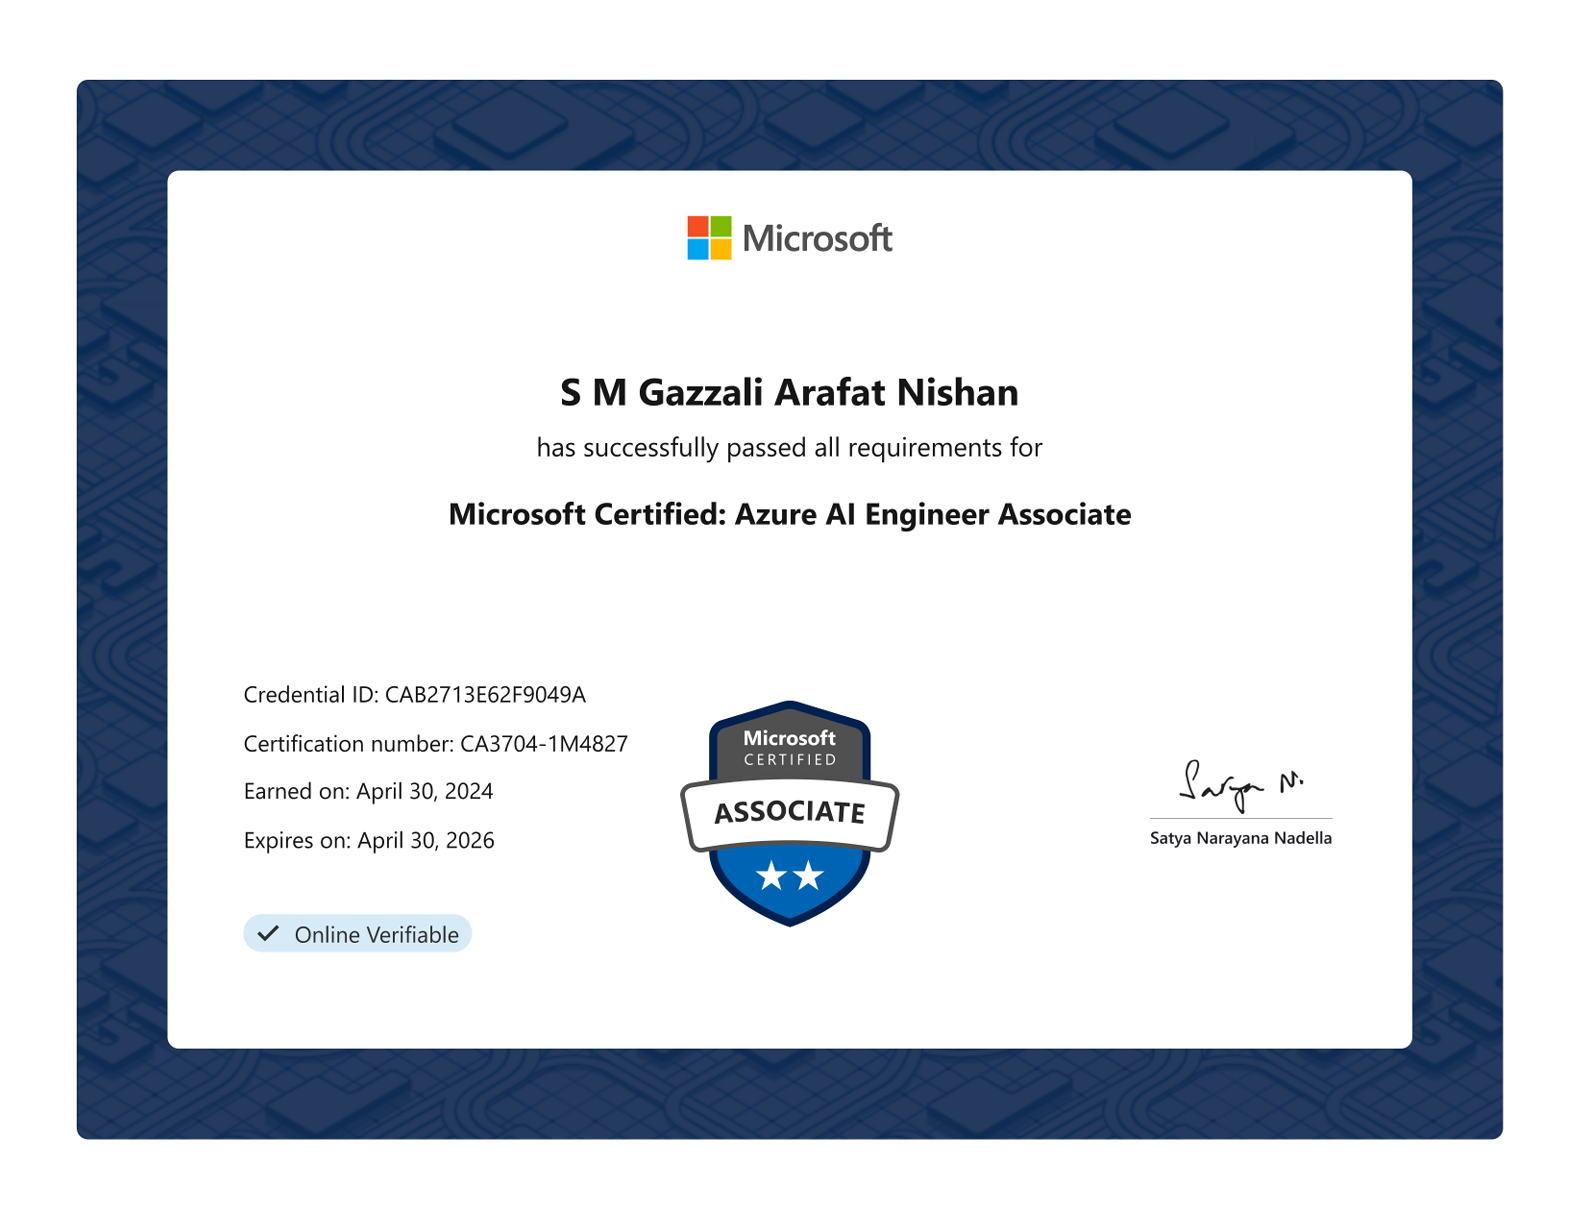
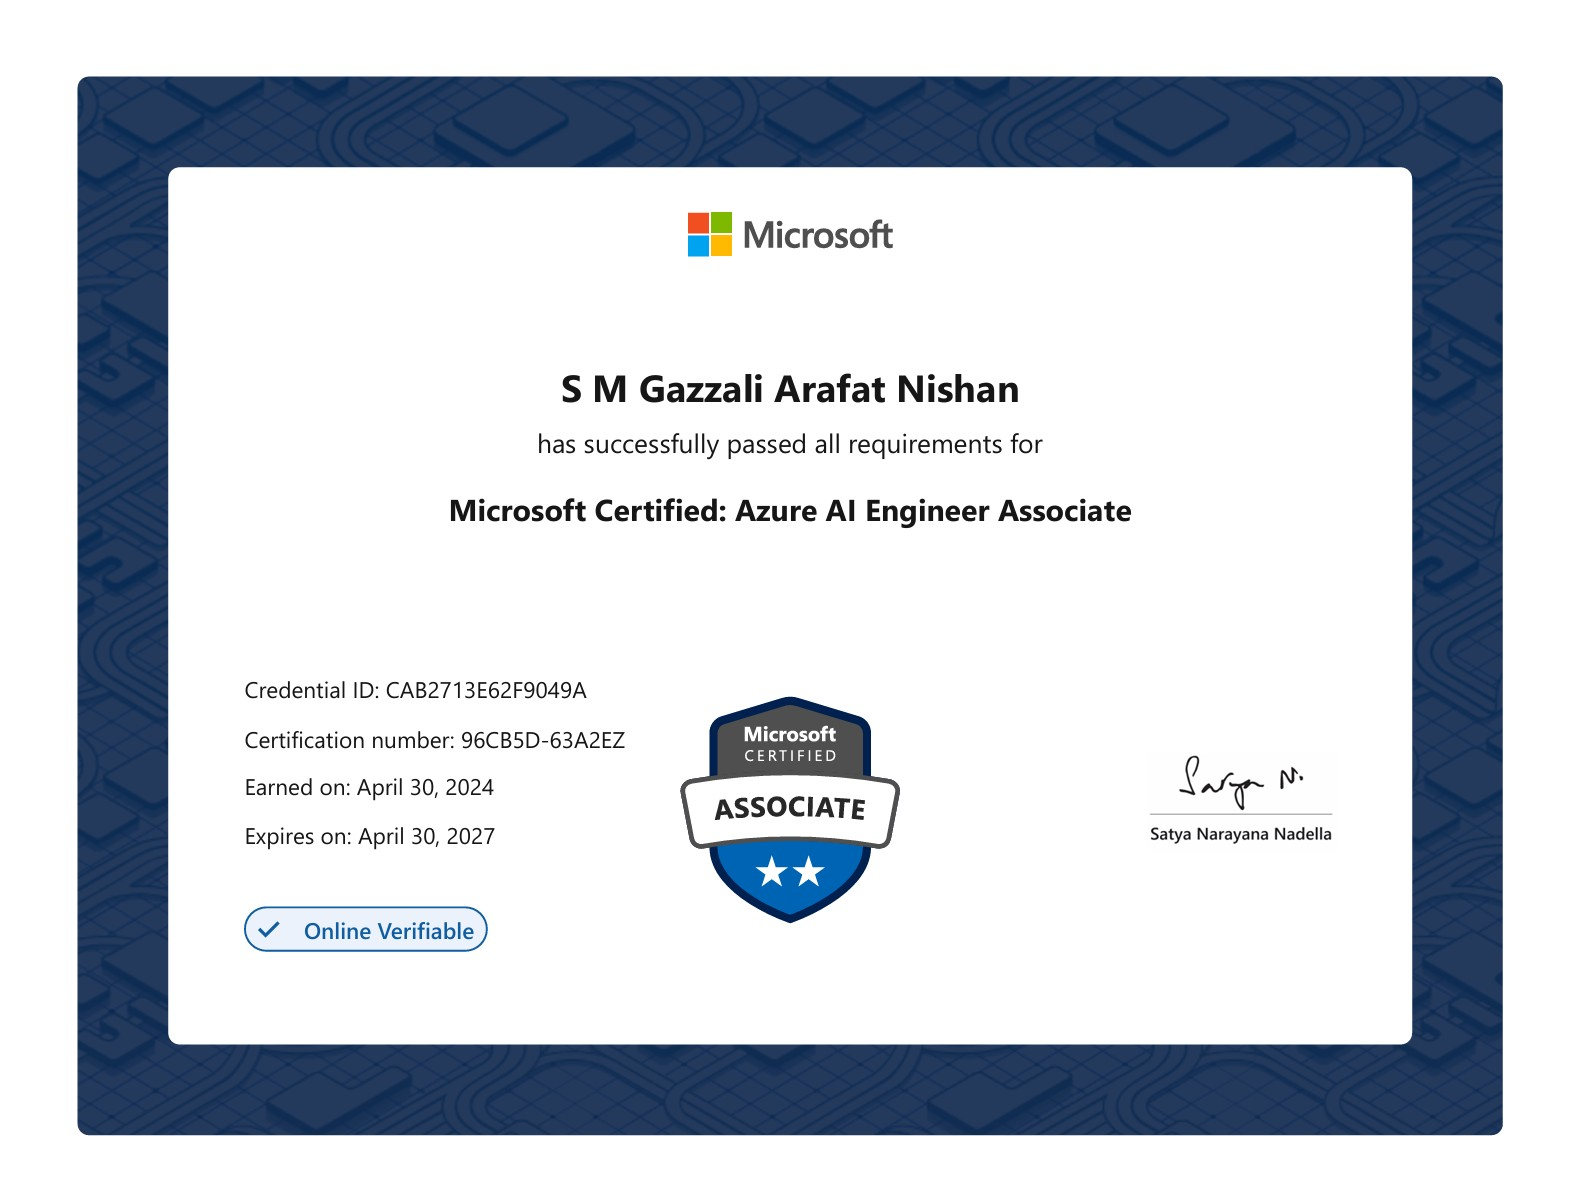
Update

diff --git a/_pages/certification.md b/_pages/certification.md
@@ -182,35 +182,31 @@ redirect_from:
 > Azure Data Scientist Associate Certificate Verification Link : [link](https://learn.microsoft.com/api/credentials/share/en-us/SMGazzaliArafatNishan-4645/A2C48D4C8739EFA2?sharingId=A489942037851738 "Microsoft").
 
 
-### Microsoft Certified: Azure AI Engineer Associate
+### Microsoft Certified: Azure AI Engineer Associate   
 
 ![Certificate Image](/files/microsoft/microsoft_azure_ai_engineer_associate_ai_102_certificate.png)
 > Fig. Azure AI Engineer Associate Certificate
 
-### Skills measured:
-★✅ Plan and manage an Azure AI solution  
-★✅ Implement decision support solutions  
-★✅ Implement computer vision solutions  
-★✅ Implement natural language processing solutions  
-★✅ Implement knowledge mining and document intelligence solutions  
-★✅ Implement generative AI solutions  
+### Skills measured:  
+★✅ Plan and manage an Azure AI solution   
+★✅ Implement generative AI solutions   
+★✅ Implement an agentic solution   
+★✅ Implement computer vision solutions    
+★✅ Implement natural language processing solutions   
+★✅ Implement knowledge mining and information extraction solutions  
   
-### Skills measured in renewal assessment:
-★✅ Create speech-enabled apps with Azure AI services  
-★✅ Translate speech with the Azure AI Speech service  
-★✅ Image classification with custom Azure AI Vision models  
-★✅ Build a conversational language understanding model  
-★✅ Deploy Azure AI services in containers  
-★✅ Analyze text with Azure AI Language  
-★✅ Apply prompt engineering with Azure OpenAI Service  
-★✅ Create question answering solutions with Azure AI Language  
-★✅Implement Retrieval Augmented Generation (RAG) with Azure OpenAI Service  
-★✅ Extract data from forms with Azure Document Intelligence  
+### Skills measured in renewal assessment:   
+★✅ Using Azure AI Foundry, developer tools, and SDKs     
+★✅ Analyze and translate text  
+★✅ Project connections and creating a chat client  
+★✅ prompt engineering   
+★✅ Translate text  
 ★✅ Analyze images  
+★✅ Extract insights from text  
 
-> Azure AI Engineer Associate Certificate Verification Link : [link](https://learn.microsoft.com/api/credentials/share/en-us/SMGazzaliArafatNishan-4645/CAB2713E62F9049A?sharingId=A489942037851738 "Microsoft").
+> Azure AI Engineer Associate Certificate Verification Link : [link](https://learn.microsoft.com/api/credentials/share/en-us/SMGazzaliArafatNishan-4645/CAB2713E62F9049A?sharingId=A489942037851738 "Microsoft").  
 
-###  Microsoft 365 Certified: Fundamentals  
+### Microsoft 365 Certified: Fundamentals  
 
 ![Certificate Image](/files/microsoft/microsoft_365_certified_fundamentals_ms_900_certificate.png)  
 > Fig. Microsoft 365 Fundamentals Certificate  
